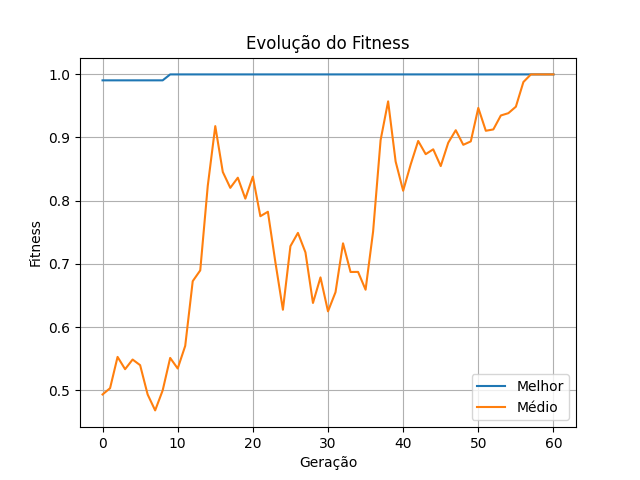
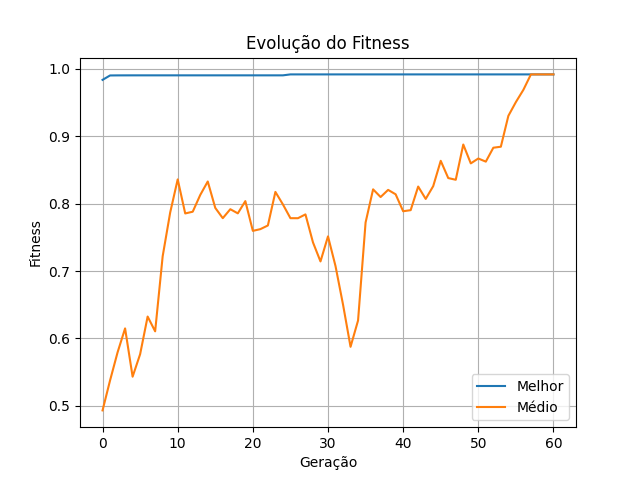
FINAL

diff --git a/main.py b/main.py
@@ -5,41 +5,49 @@ import os
 import imageio.v2 as imageio
 
 # ================= CONFIG =================
-TAMANHO_POP = 200
-GERACOES = 61
-TAXA_CROSS = 0.9
-TAXA_MUT = 0.5
-MAXMUT = 2.5
-ELITESIZE = 4
-TORNEIOSIZE = 3
-FRM = 6 # Fator de Regressão da Taxa de Mutação
+TAMANHO_POP = 300           # número de indivíduos na população
+GERACOES = 61              # número de gerações
+TAXA_CROSS = 0.8           # probabilidade de crossover
+TAXA_MUT = 0.5             # taxa base de mutação
+MAXMUT = 2.5               # intensidade máxima da mutação (desvio padrão do gauss)
+ELITESIZE = 10             # quantidade de indivíduos preservados (elitismo)
+TORNEIOSIZE = 5            # tamanho do torneio
+FRM = 6                    # fator de regressão da taxa de mutação
+
+PLOT = 'off'               # ativa/desativa geração de imagens
 
 # ==========================================
 
 # --- FUNÇÕES ---
 
 def criar_população(tamanho):
+    # cria população inicial com valores aleatórios entre -10 e 10
     return [[random.uniform(-10, 10), random.uniform(-10, 10)] for _ in range(tamanho)]
 
 def fitness(x, y):
+    # função Schaffer F6 (problema clássico multimodal)
     temp1 = np.sin(np.sqrt(x**2 + y**2))**2 - 0.5
     temp2 = (1.0 + 0.001 * (x**2 + y**2))**2
     return 0.5 - (temp1 / temp2)
 
 def calcula_fitness(populacao):
+    # calcula fitness de todos indivíduos
     return [fitness(ind[0], ind[1]) for ind in populacao]
 
 def calcula_fitness_medio(populacao):
+    # calcula fitness médio da população
     return sum(fitness(ind[0], ind[1]) for ind in populacao) / len(populacao)
 
 def mutar_individuos(individuo, taxa_mutacao):
+    # aplica mutação gaussiana em cada gene com certa probabilidade
     if random.random() < taxa_mutacao:
         for i in range(len(individuo)):
-            individuo[i] += random.gauss(0,MAXMUT)
-            individuo[i] = max(-10, min(10, individuo[i]))
+            individuo[i] += random.gauss(0,MAXMUT)  # ruído gaussiano
+            individuo[i] = max(-10, min(10, individuo[i]))  # mantém no domínio
     return individuo
 
 def selecao_torneio(populacao, fitnesses, k=TORNEIOSIZE):
+    # seleciona k indivíduos aleatórios e retorna o melhor
     selecionados = random.sample(range(len(populacao)), k)
     melhor = selecionados[0]
 
@@ -52,6 +60,7 @@ def selecao_torneio(populacao, fitnesses, k=TORNEIOSIZE):
 # --- CROSSOVERS ---
 
 def crossover(p1, p2):
+    # crossover aritmético (interpolação linear)
     alpha=random.uniform(0.25,0.75)
     f1 = [alpha*p1[0] + (1-alpha)*p2[0],
           alpha*p1[1] + (1-alpha)*p2[1]]
@@ -65,27 +74,32 @@ def crossover(p1, p2):
 # --- PLOT ---
 
 def plotar_geracao(populacao, geracao, pasta="frames"):
+    # cria pasta se não existir
     if not os.path.exists(pasta):
         os.makedirs(pasta)
 
+    # cria grade do espaço de busca
     x_range = np.linspace(-10, 10, 400)
     y_range = np.linspace(-10, 10, 400)
     X, Y = np.meshgrid(x_range, y_range)
     Z = fitness(X, Y)
 
+    # plota função de fitness como mapa de calor
     plt.figure(figsize=(10, 8))
     contorno = plt.contourf(X, Y, Z, levels=50, cmap='viridis')
     plt.colorbar(contorno)
 
+    # plota população
     pop_x = [ind[0] for ind in populacao]
     pop_y = [ind[1] for ind in populacao]
     plt.scatter(pop_x, pop_y, color='red', edgecolors='white', s=30, label="População")
 
-    # melhor indivíduo
+    # encontra melhor indivíduo
     fits = calcula_fitness(populacao)
     best_idx = np.argmax(fits)
     best = populacao[best_idx]
 
+    # destaca melhor indivíduo
     plt.scatter(best[0], best[1],
                 color='yellow', edgecolors='black',
                 s=120, marker='*', label="Melhor")
@@ -95,12 +109,16 @@ def plotar_geracao(populacao, geracao, pasta="frames"):
     plt.xlabel("X")
     plt.ylabel("Y")
 
+    # salva frame
     plt.savefig(f"{pasta}/geracao_{geracao:03d}.png")
     plt.close()
 
 # --- EXECUÇÃO ---
-sucs = 0
-for i in range(1):
+sucs = 0  # contador de sucessos
+
+for i in range(100):  # roda o algoritmo 100 vezes
+    pg = 0  # flag de print
+
     # limpa frames antigos
     if os.path.exists("frames"):
         for f in os.listdir("frames"):
@@ -113,19 +131,22 @@ for i in range(1):
 
     melhor_f = 0
     fit_medio = 0
+
     for g in range(GERACOES):
-        #TAXA_MUT_G = TAXA_MUT * max(0,(1-(g/(GERACOES-5))**FRM))
-        # normaliza tempo
+
+        # normaliza tempo da geração (0 → 1)
         x = g / (GERACOES - 5)
 
-        # decaimento temporal (controla convergência final)
+        # decaimento da mutação ao longo do tempo
         decay = (1 - x**FRM)
 
-        # diferença entre melhor e médio (estado da população)
+        # mede diversidade: diferença entre melhor e média
         delta = (melhor_f - fit_medio) / (abs(melhor_f)+0.0000001)
 
-        # mutação adaptativa + decaimento
-        TAXA_MUT_G = max(0.0,decay * (0 + (TAXA_MUT - 0) * np.exp(-5 * delta)))
+        # taxa de mutação adaptativa:
+        # - maior quando população está homogênea
+        # - menor quando está explorando bem
+        TAXA_MUT_G = max(0.0,decay * (0 + (TAXA_MUT - 0) * np.exp(-1 * delta)))
 
         fits = calcula_fitness(populacao)
         fit_medio = calcula_fitness_medio(populacao)
@@ -134,23 +155,26 @@ for i in range(1):
         historico_fitness.append(melhor_f)
         historico_fitness_medio.append(fit_medio)
 
-        if g % 2 == 0 or g == GERACOES - 1:
-            plotar_geracao(populacao, g)
+        # gera frame do plot (opcional)
+        if (g % 2 == 0 or g == GERACOES - 1) and PLOT == 'on':
+             plotar_geracao(populacao, g)
 
-        # elitismo
+        # elitismo: mantém os melhores indivíduos
         elite_idx = np.argsort(fits)[-ELITESIZE:]
         nova_pop = [populacao[i].copy() for i in elite_idx]
 
-
+        # gera nova população
         while len(nova_pop) < TAMANHO_POP:
             p1 = selecao_torneio(populacao, fits)
             p2 = selecao_torneio(populacao, fits)
 
+            # aplica crossover
             if random.random() < TAXA_CROSS:
                     f1, f2 = crossover(p1, p2)
             else:
                 f1, f2 = p1.copy(), p2.copy()
 
+            # aplica mutação
             f1 = mutar_individuos(f1,TAXA_MUT_G)
             f2 = mutar_individuos(f2, TAXA_MUT_G)
 
@@ -160,21 +184,28 @@ for i in range(1):
 
         populacao = nova_pop
 
-        print(f"Geracao {g}: Melhor={melhor_f:.6f} | Medio={fit_medio:.6} | TAXAMUT={TAXA_MUT_G:.2}")
+        # verifica sucesso (próximo do ótimo global)
+        if melhor_f>0.9904 and pg == 0:
+            print(f"Geracao {g}: Melhor={melhor_f:.6f} | Medio={fit_medio:.6} | TAXAMUT={TAXA_MUT_G:.2}")
+            pg = 1
+        elif PLOT=='on': 
+            print(f"Geracao {g}: Melhor={melhor_f:.6f} | Medio={fit_medio:.6} | TAXAMUT={TAXA_MUT_G:.2}")
+
+    # contabiliza sucesso
     if melhor_f>0.9904:
         sucs += 1 
 
 print(f"Taxa de sucesso: {sucs}%")
 
 # --- GIF ---
+if PLOT == 'on':
+    images = []
+    for arquivo in sorted(os.listdir("frames")):
+        if arquivo.endswith(".png"):
+            images.append(imageio.imread(os.path.join("frames", arquivo)))
 
-images = []
-for arquivo in sorted(os.listdir("frames")):
-    if arquivo.endswith(".png"):
-        images.append(imageio.imread(os.path.join("frames", arquivo)))
-
-imageio.mimsave("evolucao.gif", images, duration=10)
-print("\nGIF salvo como evolucao.gif")
+    imageio.mimsave("evolucao.gif", images, duration=10)
+    print("\nGIF salvo como evolucao.gif")
 
 # --- GRÁFICO FINAL ---
 
@@ -188,4 +219,3 @@ plt.legend()
 plt.grid(True)
 plt.savefig("evolucao_fitness.png")  # salva o gráfico
 plt.close()  # fecha a figura
-
